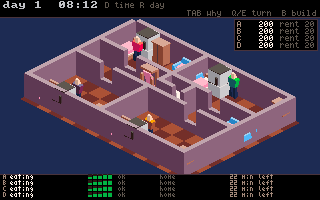
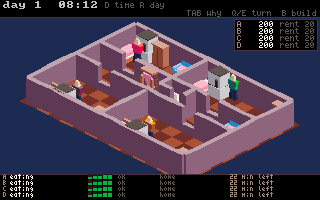
tenement: a depth buffer instead of a sort, and the arrows orbit and tilt freely
FURNITURE THROUGH WALLS WAS MY FIX MAKING THINGS WORSE. Walls straddle their
edge, so they always intruded one voxel into the adjacent tile — and furniture
FILLS its tile. Nudging walls fully off the boundary to stop corners
interpenetrating doubled that intrusion to two voxels, which is when it became
visible. Third time interpenetration has bitten, and it is the class a painter's
sort structurally cannot fix, so the sort is gone rather than the geometry:

  · no sort at all — draw order stops mattering, which also deletes the qsort
    stability trap that made the corners strobe two commits ago
  · walls go back to the draw list's own straddled placement, matching sprites
  · SUBDIVISION IS DELETED, and this is what pays for the depth test. Splitting
    every polygon to a tile existed ONLY because a sort gives one depth per
    polygon; a per-pixel test has no such limit, so it was ~40% of the triangles
    and a rectfill run each. 3.02ms with it, 2.28ms without — i.e. the depth
    buffer lands at the same cost as the sort it replaces (2.31ms) and is correct.

AND FREE ORBIT + TILT, from the probe, on the arrows. tn_rot stays an int 0..3
because the SPRITES exist at four angles and nowhere between, and because
build.h picks a tile by inverting the projection and that inverse only knows the
four quarter turns. So the free camera is a LOOKING tool: it is polygon-view
only, build mode snaps back unconditionally (not just on entry, so no path can
[…]

Changed region(s): [[0.0625, 0.09, 0.9375, 0.87]]

diff --git a/runtime/tenement/art.h b/runtime/tenement/art.h
@@ -89,6 +89,54 @@ static int tnr_cmp_draw(const void *a, const void *b) {
 // ═══════════════════════════════════════════════════════════════════════════════════════════════
 int tn_poly = 1;          // owner: art. The cart toggles it; 0 = the baked voxel sprites.
 
+// ── FREE ORBIT AND TILT, which only the polygon view can have ───────────────────────────────────
+// A baked sprite exists at four angles and nowhere between, so tn_rot stays an int 0..3 and keeps
+// driving the sprite view, the cell lookup, and — the load-bearing one — build.h's click-to-tile
+// picking, whose inverse transform only knows the four quarter turns. A mesh has no such limit, so
+// the polygon view reads these two instead.
+//
+// AT tn_yaw = 45 + 90*tn_rot AND tn_tilt = 1 THE TWO PROJECTIONS ARE IDENTICAL. That is not a
+// coincidence to be grateful for, it is the property that lets one draw list feed both views, and
+// polyroom's spec() asserts it. The cart keeps them in step and snaps back to a quarter turn before
+// build mode opens, because a click has to land on the tile you think you clicked.
+float tn_yaw  = 45.0f;    // degrees; 45 + 90*rot reproduces the baked view exactly
+float tn_tilt = 1.0f;     // ground squash; 1.0 is the classic 2:1 iso, lower is a flatter camera
+static float tnr_pcx, tnr_pcy;                 // the polygon view's own camera offset
+
+static void tnr_poly_project(float vx, float vy, float vz, float *sx, float *sy) {
+    const float a = tn_yaw * 3.14159265f / 180.0f, c = cosf(a), s = sinf(a);
+    const float Xr = vx*c - vy*s, Yr = vx*s + vy*c;
+    *sx = Xr * (ISO_TW * 0.5f) * 1.41421356f;
+    *sy = Yr * (ISO_TH * 0.5f) * 1.41421356f * tn_tilt - vz * ISO_ZH;
+}
+// The view ray, DERIVED from that projection rather than hardcoded, so it stays correct when the
+// tilt changes: a world offset leaves the screen position alone when Xr does not move and the ground
+// and height terms cancel. Larger dot = NEARER, matching the draw list's convention.
+static void tnr_viewdir(float *dx, float *dy, float *dz) {
+    const float a = tn_yaw * 3.14159265f / 180.0f;
+    *dx = sinf(a);  *dy = cosf(a);
+    *dz = (ISO_TH * 0.5f) * 1.41421356f * tn_tilt / (float)ISO_ZH;
+}
+// SCREEN-RIGHT is (cos a, -sin a), NOT the world x axis: sx = (x cos a - y sin a) * k, so world +y
+// moves screen-LEFT. Shading needs this and getting it wrong makes two faces tie.
+static float tnr_screen_right(const float n[3]) {
+    const float a = tn_yaw * 3.14159265f / 180.0f;
+    return n[0] * cosf(a) - n[1] * sinf(a);
+}
+static void tnr_poly_camera(void) {
+    float minx=1e9f, maxx=-1e9f, miny=1e9f, maxy=-1e9f;
+    const float W = tn_bw * TN_TILE_VOX, H = tn_bh * TN_TILE_VOX;
+    for (int c = 0; c < 8; c++) {
+        float sx, sy;
+        tnr_poly_project((c&1)?W:-2.0f, (c&2)?H:-2.0f, (c&4)?12.0f:0.0f, &sx, &sy);
+        if (sx<minx) minx=sx; if (sx>maxx) maxx=sx; if (sy<miny) miny=sy; if (sy>maxy) maxy=sy;
+    }
+    // Floored for the same reason tn_camera is: a half-pixel camera rounds adjacent shapes opposite
+    // ways and opens 1px seams (iso-rooms.md §7).
+    tnr_pcx = floorf((SCREEN_W - (maxx - minx)) * 0.5f - minx);
+    tnr_pcy = floorf((SCREEN_H - 26 - (maxy - miny)) * 0.5f - miny + 12);
+}
+
 enum { TNM_WOOD, TNM_UPH, TNM_CUSH, TNM_METAL, TNM_PORC, TNM_TRIM, TNM_WALL,
        TNM_SHIRT, TNM_TROUSER, TNM_SKIN, TNM_FLOOR_A, TNM_FLOOR_B, TNM_COUNT };
 
@@ -264,24 +312,33 @@ static const TnMesh TNR_MESHES[ISO_MODEL_COUNT] = {
 // ASCENDING so far draws first. Derived from the projection rather than assumed: a world offset
 // leaves the screen position unchanged when X==Y and (X+Y)*ISO_TH/2 == z*ISO_ZH, which for this
 // projection makes the view ray (1,1,1) in turned coords — so nearness is X + Y + z.
-typedef struct { int x[3], y[3]; float near; int seq; unsigned char col; } TnTri;
+// ── A DEPTH BUFFER, and why this path has NO SORT AT ALL ────────────────────────────────────────
+// Three separate defects here turned out to be one thing: two solids sharing space, which a
+// painter's sort cannot resolve at ANY granularity. Wall corners strobed because a north wall and a
+// west wall share a column. Furniture punches through walls because a wall straddles its edge and
+// intrudes a voxel into a tile the furniture fills. Both were "fixed" by shuffling geometry, and the
+// second fix made the first worse. A per-pixel depth test ends the whole class instead.
+//
+// It also DELETES constraints rather than adding them: no sort, so no stability trap (qsort is not
+// stable, and swapping the stable zsort for it is what made the corners strobe in the first place);
+// no need for parts to abut; and subdivision is no longer load-bearing for correctness. Measured in
+// the `polyroom` probe at slightly FASTER than sorting, because the sort draws every triangle in
+// full while the depth test only emits the runs that survive.
+//
+// Depth interpolates EXACTLY in screen space here rather than approximately: the projection is
+// orthographic, so there is no perspective divide and depth is affine in screen x/y. A perspective
+// renderer would have to interpolate 1/z instead.
+//
+// `zv` is per-VERTEX nearness, LARGER = NEARER (the draw list's own convention above).
+typedef struct { int x[3], y[3]; float zv[3]; unsigned char col; } TnTri;
 #define TNR_MAX_TRIS 8192
 static TnTri tnr_tri[TNR_MAX_TRIS];
 static int   tnr_tri_n;
-// `seq` EXISTS TO BREAK TIES, and without it the picture flickers. qsort is NOT a stable sort, so
-// two faces at equal depth may come out in either order — and worse, in an order that changes as
-// UNRELATED elements move, because the pivot choices change. Residents move every frame, so a tied
-// pair of wall faces swapped every frame and the corner strobed between two shades. A total order
-// makes the frame a function of the scene alone. (zsort's insertion pass happens to be stable, so
-// this trap is created by the very change that made the sort affordable at this scale.)
-static int   tnr_cmp_tri(const void *a, const void *b) {
-    const TnTri *p = (const TnTri*)a, *q = (const TnTri*)b;
-    if (p->near < q->near) return -1;
-    if (p->near > q->near) return  1;
-    return p->seq - q->seq;
-}
+static float tnr_zbuf[SCREEN_W * SCREEN_H];
+#define TNR_ZNEAR (-1e18f)
 static float tnr_near3(float vx, float vy, float vz) {
-    float X, Y; tnr_iso_turn(tn_rot, vx, vy, &X, &Y); return X + Y + vz;
+    float dx, dy, dz; tnr_viewdir(&dx, &dy, &dz);
+    return vx*dx + vy*dy + vz*dz;
 }
 
 // Brightness -> a palette index. Screen-space rule rather than a dot product against a light, and
@@ -292,8 +349,7 @@ static float tnr_near3(float vx, float vy, float vz) {
 // in-between values, and it cannot tie: the view direction bisects the two visible side faces, so
 // their screen-right-ness is always opposite in sign.
 static int tnr_shade(const float n[3], int mat, int hh) {
-    float NX, NY; tnr_iso_turn(tn_rot, n[0], n[1], &NX, &NY);
-    const float right = (NX - NY) * 0.70710678f;      // sx = (X-Y)*ISO_TW/2, so this IS screen-right
+    const float right = tnr_screen_right(n);
     const float up    = n[2] > 0.0f ? n[2] : 0.0f;
     float br = 0.20f + 0.38f * up + 0.40f * (0.5f + 0.5f * right);
     if (br > 1.0f) br = 1.0f;  if (br < 0.0f) br = 0.0f;
@@ -310,15 +366,16 @@ static int tnr_shade(const float n[3], int mat, int hh) {
     return TNR_RAMP[mat][s];
 }
 
-static void tnr_push(const float a[3], const float b[3], const float c[3], int col, float nr) {
+static void tnr_push(const float a[3], const float b[3], const float c[3], int col) {
     if (tnr_tri_n >= TNR_MAX_TRIS) return;
     TnTri *t = &tnr_tri[tnr_tri_n];
     const float *v[3] = { a, b, c };
     for (int i = 0; i < 3; i++) {
-        float sx, sy; tnr_iso_project(tn_rot, v[i][0], v[i][1], v[i][2], &sx, &sy);
-        t->x[i] = (int)(sx + cam_x);  t->y[i] = (int)(sy + cam_y);
+        float sx, sy; tnr_poly_project(v[i][0], v[i][1], v[i][2], &sx, &sy);
+        t->x[i] = (int)(sx + tnr_pcx);  t->y[i] = (int)(sy + tnr_pcy);
+        t->zv[i] = tnr_near3(v[i][0], v[i][1], v[i][2]);
     }
-    t->near = nr;  t->col = (unsigned char)col;  t->seq = tnr_tri_n;
+    t->col = (unsigned char)col;
     tnr_tri_n++;
 }
 
@@ -337,32 +394,20 @@ static void tnr_face(const float a[3], const float b[3], const float c[3], const
     const float len = sqrtf(n[0]*n[0] + n[1]*n[1] + n[2]*n[2]);
     if (len < 1e-6f) return;
     n[0] /= len; n[1] /= len; n[2] /= len;
-    // The view ray is (1,1,1) in TURNED coords, so a face is visible when its turned normal plus
-    // its z component points at the camera. Same derivation as tnr_near3.
-    float TNx, TNy; tnr_iso_turn(tn_rot, n[0], n[1], &TNx, &TNy);
-    if (TNx + TNy + n[2] <= 0.0f) return;          // backface: with no z-buffer this is correctness
+    // A face is visible when its normal points along the view ray. Same derivation as tnr_near3, so
+    // it stays correct at any yaw and tilt rather than only at the four baked angles.
+    float dx, dy, dz; tnr_viewdir(&dx, &dy, &dz);
+    if (n[0]*dx + n[1]*dy + n[2]*dz <= 0.0f) return;   // backface
     const int col = tnr_shade(n, mat, hh);
 
-    const float ux=b[0]-a[0], uy=b[1]-a[1], uz=b[2]-a[2];
-    const float vx=d[0]-a[0], vy=d[1]-a[1], vz=d[2]-a[2];
-    int nu = (int)(sqrtf(ux*ux+uy*uy+uz*uz) / (float)TN_TILE_VOX + 0.999f);
-    int nv = (int)(sqrtf(vx*vx+vy*vy+vz*vz) / (float)TN_TILE_VOX + 0.999f);
-    if (nu < 1) nu = 1;  if (nu > 6) nu = 6;
-    if (nv < 1) nv = 1;  if (nv > 6) nv = 6;
-    for (int j = 0; j < nv; j++) for (int i = 0; i < nu; i++) {
-        const float ss[4] = { (float)i/nu, (float)(i+1)/nu, (float)(i+1)/nu, (float)i/nu };
-        const float tt[4] = { (float)j/nv, (float)j/nv, (float)(j+1)/nv, (float)(j+1)/nv };
-        float q[4][3], cen[3] = { 0, 0, 0 };
-        for (int k = 0; k < 4; k++) for (int e = 0; e < 3; e++) {
-            const float top = a[e] + (b[e]-a[e]) * ss[k];
-            const float bot = d[e] + (c[e]-d[e]) * ss[k];
-            q[k][e] = top + (bot-top) * tt[k];
-            cen[e] += q[k][e];
-        }
-        const float nr = tnr_near3(cen[0]*0.25f, cen[1]*0.25f, cen[2]*0.25f);
-        tnr_push(q[0], q[1], q[2], col, nr);
-        tnr_push(q[0], q[2], q[3], col, nr);
-    }
+    // NO SUBDIVISION, and this is the depth buffer PAYING FOR ITSELF. Splitting every polygon down
+    // to about a tile was never wanted for its own sake — it existed because a painter's sort gives
+    // one depth per polygon, so a polygon spanning a large depth range is unsortable and a
+    // full-length wall face got drawn over furniture in front of it. A per-pixel test has no such
+    // limit, so the split is pure waste: it cost ~40% of the triangles and every one of them a
+    // rectfill run. Deleting it is what makes the depth test cheaper than the sort it replaced.
+    tnr_push(a, b, c, col);
+    tnr_push(a, c, d, col);
 }
 
 // A prism's six faces, wound counter-clockwise seen from OUTSIDE so the normal points out.
@@ -379,10 +424,56 @@ static void tnr_part(const TnPart *p, float ox, float oy, float oz, int hh) {
     tnr_face(b3,b0,u0,u3, m,hh);  tnr_face(b1,b2,u2,u1, m,hh);   // left, right
 }
 
+// Flat-shaded triangle with a depth test, edge functions stepped incrementally. Runs of surviving
+// pixels are emitted as ONE rectfill, because a flat triangle's passing pixels are contiguous until
+// something occludes them — that keeps the call count near the SCANLINE count rather than the pixel
+// count, which is the difference between this being usable and being a slideshow.
+static void tnr_raster(const TnTri *t) {
+    int x0=t->x[0], y0=t->y[0], x1=t->x[1], y1=t->y[1], x2=t->x[2], y2=t->y[2];
+    float z0=t->zv[0], z1=t->zv[1], z2=t->zv[2];
+    float area = (float)(x1-x0)*(y2-y0) - (float)(x2-x0)*(y1-y0);
+    if (area == 0.0f) return;
+    if (area < 0.0f) {                                  // one winding, so "inside" is one test
+        int tx=x1; x1=x2; x2=tx;  int ty=y1; y1=y2; y2=ty;
+        float tz=z1; z1=z2; z2=tz;  area = -area;
+    }
+    int lox = x0<x1 ? (x0<x2?x0:x2) : (x1<x2?x1:x2), hix = x0>x1 ? (x0>x2?x0:x2) : (x1>x2?x1:x2);
+    int loy = y0<y1 ? (y0<y2?y0:y2) : (y1<y2?y1:y2), hiy = y0>y1 ? (y0>y2?y0:y2) : (y1>y2?y1:y2);
+    if (lox < 0) lox = 0;  if (hix > SCREEN_W-1) hix = SCREEN_W-1;
+    if (loy < 0) loy = 0;  if (hiy > SCREEN_H-1) hiy = SCREEN_H-1;
+    if (lox > hix || loy > hiy) return;
+
+    const float inv = 1.0f / area;
+    const float a0 = -(float)(y2-y1), b0 = (float)(x2-x1);
+    const float a1 = -(float)(y0-y2), b1 = (float)(x0-x2);
+    const float a2 = -(float)(y1-y0), b2 = (float)(x1-x0);
+    const int col = t->col;
+    for (int y = loy; y <= hiy; y++) {
+        const float py = (float)y + 0.5f, px0 = (float)lox + 0.5f;
+        float w0 = a0*(px0-(float)x1) + b0*(py-(float)y1);
+        float w1 = a1*(px0-(float)x2) + b1*(py-(float)y2);
+        float w2 = a2*(px0-(float)x0) + b2*(py-(float)y0);
+        float *row = &tnr_zbuf[y * SCREEN_W];
+        int run_x = 0, run_n = 0;
+        for (int x = lox; x <= hix; x++, w0 += a0, w1 += a1, w2 += a2) {
+            int keep = 0;
+            if (w0 >= 0.0f && w1 >= 0.0f && w2 >= 0.0f) {
+                const float z = (w0*z0 + w1*z1 + w2*z2) * inv;
+                if (z > row[x]) { row[x] = z; keep = 1; }   // larger = nearer
+            }
+            if (keep) { if (!run_n) run_x = x;  run_n++; }
+            else if (run_n) { rectfill(run_x, y, run_n, 1, col); run_n = 0; }
+        }
+        if (run_n) rectfill(run_x, y, run_n, 1, col);
+    }
+}
+
 // Which household a draw-list entry belongs to, for the shirt colour. Only residents carry one; the
 // furniture's own `household` is ownership, not paint, so it is deliberately NOT read here.
 static void tnr_draw_poly(void) {
     tnr_tri_n = 0;
+    tnr_poly_camera();
+    for (int i = 0; i < SCREEN_W * SCREEN_H; i++) tnr_zbuf[i] = TNR_ZNEAR;
     // Floor. The outer tiles run 2 voxels UNDER the walls: the floor's edge and the wall's base are
     // the same line in space, and two polygons meeting exactly on a line leave the boundary pixel
     // unowned under pixel-centre coverage — which showed as a dashed dark seam all round the room.
@@ -399,32 +490,18 @@ static void tnr_draw_poly(void) {
     for (int i = 0; i < tnr_dl_n; i++) {
         const int cell = tnr_dl[i].cell;
         const TnMesh *m = &TNR_MESHES[cell];
-        // WALLS ARE NUDGED FULLY ONTO ONE SIDE OF THEIR EDGE, and this is a correctness fix rather
-        // than a taste one. The draw list STRADDLES them: a north wall is two voxels thick centred
-        // on the boundary (y-1 .. y+1) and a west wall likewise (x-1 .. x+1), so at every corner the
-        // two share a 1x1x12 COLUMN. Sprites did not care — both are the same opaque wall art — but
-        // meshes do: one wall's buried end face fights the other's surface, and since the two faces
-        // are lit as screen-right and screen-left they differ in shade, so the corner strobed between
-        // dark and light. Interpenetration is the one artifact a painter's sort cannot resolve at any
-        // granularity, so it has to go from the GEOMETRY.
-        // Shifting each family one voxel off the boundary makes corners TOUCH instead of overlap
-        // (verify: north spans y-2..y and west spans x-2..x, and those two boxes share zero volume),
-        // while consecutive walls along one edge still meet exactly. The cost is that a wall sits
-        // just inside the tile north/west of its edge rather than centred on it — a one-voxel
-        // asymmetry, invisible next to a strobing corner.
-        float ox = tnr_dl[i].vx, oy = tnr_dl[i].vy;
-        if (cell == ISO_WALL_LOW_NS || cell == ISO_WALL_FULL_NS) oy -= 1.0f;
-        if (cell == ISO_WALL_LOW_EW || cell == ISO_WALL_FULL_EW) ox -= 1.0f;
+        // WALLS KEEP THE DRAW LIST'S OWN STRADDLED PLACEMENT, centred on their edge, the same as the
+        // sprite view. An earlier pass nudged them a voxel off the boundary to stop corners
+        // interpenetrating, and that traded one overlap for a worse one: a wall intrudes into the
+        // adjacent tile, furniture FILLS its tile, so doubling the intrusion made furniture visibly
+        // punch through walls. The depth test resolves both without moving anything, which is the
+        // whole reason it is here.
         for (int p = 0; p < m->n; p++)
-            tnr_part(&m->p[p], ox, oy, tnr_dl[i].vz, tnr_dl[i].hh);
+            tnr_part(&m->p[p], tnr_dl[i].vx, tnr_dl[i].vy, tnr_dl[i].vz, tnr_dl[i].hh);
     }
-    // qsort, NOT zsort: zsort is an insertion sort, and this scene is thousands of triangles where
-    // that is millions of comparisons a frame. Same reason the draw list above qsorts.
-    qsort(tnr_tri, tnr_tri_n, sizeof tnr_tri[0], tnr_cmp_tri);
-    for (int i = 0; i < tnr_tri_n; i++) {
-        const TnTri *t = &tnr_tri[i];
-        trifill(t->x[0], t->y[0], t->x[1], t->y[1], t->x[2], t->y[2], t->col);
-    }
+    // NO SORT. Not a faster sort, not a stabler one — none. Draw order stops mattering entirely,
+    // which is the whole argument for a depth buffer in one line of code.
+    for (int i = 0; i < tnr_tri_n; i++) tnr_raster(&tnr_tri[i]);
 }
 
 void tn_draw_world(void) {
@@ -509,9 +586,14 @@ void tn_draw_world(void) {
     // the turn: step along the edge's outward normal and see whether depth rises. And the loops run
     // to <= so the far shell exists at all — tn_edge_at already reports the outside ring SOLID, so
     // this needs no new data.
-    const float d0 = tnr_iso_depth(tn_rot, 0.0f, 0.0f);
-    const int near_n = tnr_iso_depth(tn_rot, 0.0f, -1.0f) > d0;   // a north edge faces the camera
-    const int near_w = tnr_iso_depth(tn_rot, -1.0f, 0.0f) > d0;   // a west edge faces the camera
+    // The cutaway follows the CONTINUOUS view direction, so a wall cuts away at any orbit angle and
+    // not only at the four baked ones. Still derived from the projection rather than tabulated per
+    // rotation: stepping along an edge's outward normal and asking whether nearness rises is exactly
+    // the old test, and at tn_yaw = 45 + 90*tn_rot the two agree — which is why the sprite view sees
+    // no change. (Written out: north is near when cos(yaw) < 0, west when sin(yaw) < 0.)
+    float vdx, vdy, vdz; tnr_viewdir(&vdx, &vdy, &vdz);
+    const int near_n = (-vdy) > 0.0f;                   // a north edge faces the camera
+    const int near_w = (-vdx) > 0.0f;                   // a west edge faces the camera
     for (int ty = 0; ty <= tn_bh; ty++) {
         for (int tx = 0; tx <= tn_bw; tx++) {
             const float vx = tx * TN_TILE_VOX, vy = ty * TN_TILE_VOX;

diff --git a/tools/carts/tenement.c b/tools/carts/tenement.c
@@ -29,7 +29,7 @@
   "description": {
     "summary": "A few residents, some furniture, and one question: does the best offer on the table beat picking your worst need first? Watch the scores and see.",
     "detail": "The thin vertical slice of a bigger sim about several households sharing one building. Every object advertises what it offers, how strongly, for how long, and for how many people at once. Every resident does no thinking at all beyond taking the single best offer available, where a need's deficit is one term in the score rather than a filter applied first. That distinction is the whole point: the usual way to write this is to sort needs by urgency and then look for an object, which sends a hungry person past an empty toilet to a fridge on the far side of the building. Here the near thing can win. The HUD shows each resident's current winning bid and its score, because the interesting part of this simulation is invisible otherwise.",
-    "controls": "Q/E turn the building. V flips the rendering between low-poly triangles (the default) and the baked voxel sprites, which is the same building drawn twice. TAB shows every bid the winning resident considered, not just the winner. SPACE pauses. 1/2/4 set speed. D and R are the two open design questions, off by default: D prices an action by how long it takes, R gives the day a shape and lets a resident decline a bad offer. Turn both on and the building starts fighting over the one toilet."
+    "controls": "Q/E turn the building a quarter at a time. ARROWS orbit and tilt freely, which only the polygon view can do — the sprites exist at four angles and nowhere between — and which switches off in build mode, because a click has to land on the tile you think you clicked. V flips the rendering between low-poly triangles (the default) and the baked voxel sprites, which is the same building drawn twice. TAB shows every bid the winning resident considered, not just the winner. SPACE pauses. 1/2/4 set speed. D and R are the two open design questions, off by default: D prices an action by how long it takes, R gives the day a shape and lets a resident decline a bad offer. Turn both on and the building starts fighting over the one toilet."
   }
 }
 de:meta */
@@ -94,8 +94,32 @@ void init(void) { colorkey(-1); tn_world_init(); }
 
 void update(void) {
     tn_build_input();
-    if (keyp('Q')) tn_rot = (tn_rot + 3) & 3;
-    if (keyp('E')) tn_rot = (tn_rot + 1) & 3;
+    // BUILD MODE FORCES A BAKED ANGLE. build.h picks a tile by inverting the projection, and that
+    // inverse only knows the four quarter turns — so at any other angle the player would click one
+    // tile and get another, silently. Snapping is unconditional rather than "only on entry" so no
+    // path can leave the camera and the picker disagreeing.
+    if (tnb_on) { tn_yaw = 45.0f + 90.0f * tn_rot; tn_tilt = 1.0f; }
+    if (keyp('Q')) { tn_rot = (tn_rot + 3) & 3; tn_yaw = 45.0f + 90.0f * tn_rot; tn_tilt = 1.0f; }
+    if (keyp('E')) { tn_rot = (tn_rot + 1) & 3; tn_yaw = 45.0f + 90.0f * tn_rot; tn_tilt = 1.0f; }
+    // FREE ORBIT AND TILT, arrows, POLYGON VIEW ONLY — and off in build mode, which is not a
+    // limitation to apologise for but the honest shape of the thing. The sprites exist at four angles
+    // and nowhere between, and build.h turns a click into a tile through an inverse that only knows
+    // those four; at any other angle you would be clicking one tile and getting another. So the free
+    // camera is a LOOKING tool, and Q/E (or opening build) snap back to a baked angle.
+    // Per frame rather than dt-scaled, so a scripted clip lands on a chosen angle: a headless run
+    // compresses elapsed time to nearly nothing, which makes dt-driven motion unrepeatable.
+    if (tn_poly && !tnb_on) {
+        if (key(KEY_LEFT))  tn_yaw -= 1.5f;
+        if (key(KEY_RIGHT)) tn_yaw += 1.5f;
+        if (key(KEY_UP))   { tn_tilt += 0.02f; if (tn_tilt > 1.35f) tn_tilt = 1.35f; }
+        if (key(KEY_DOWN)) { tn_tilt -= 0.02f; if (tn_tilt < 0.30f) tn_tilt = 0.30f; }
+        while (tn_yaw <   0.0f) tn_yaw += 360.0f;
+        while (tn_yaw >= 360.0f) tn_yaw -= 360.0f;
+        // tn_rot tracks the nearest quarter turn, so the sprite view and the cell lookup stay sane
+        // and flipping to V never lands on an angle the sprites do not have.
+        tn_rot = ((int)floorf((tn_yaw - 45.0f) / 90.0f + 0.5f)) & 3;
+        tn_camera();
+    }
     if (keyp(KEY_TAB)) tnc_show_bids = !tnc_show_bids;
     // V flips the two RENDERINGS of the same building: low-poly triangles (the default now) and the
     // baked voxel sprites this cart shipped with. Kept as a toggle rather than a replacement because
